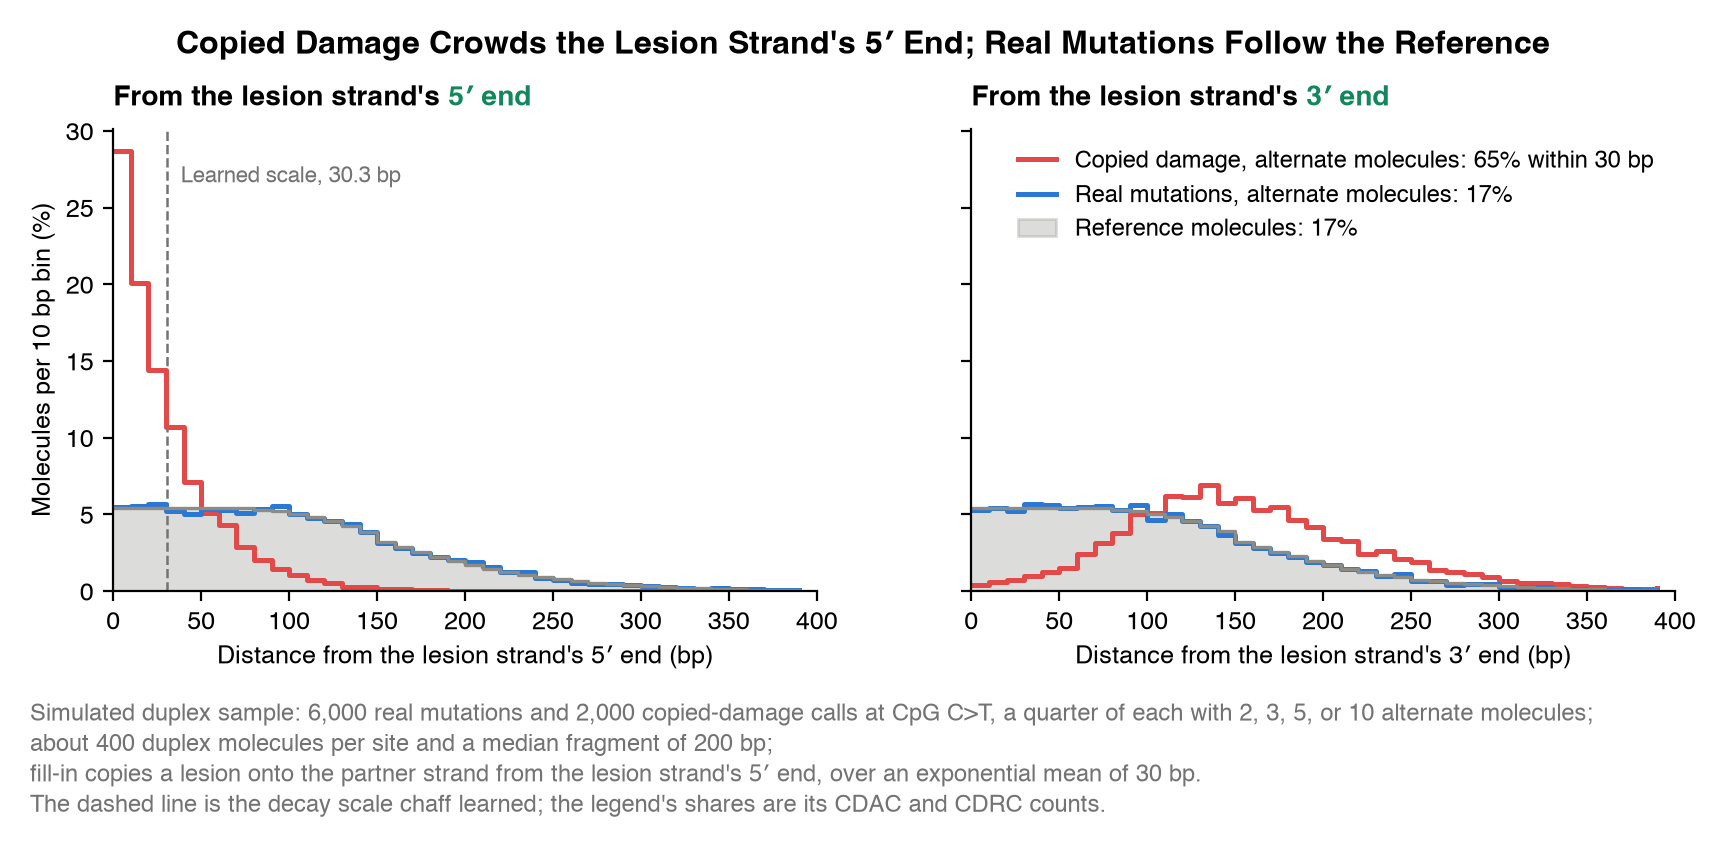
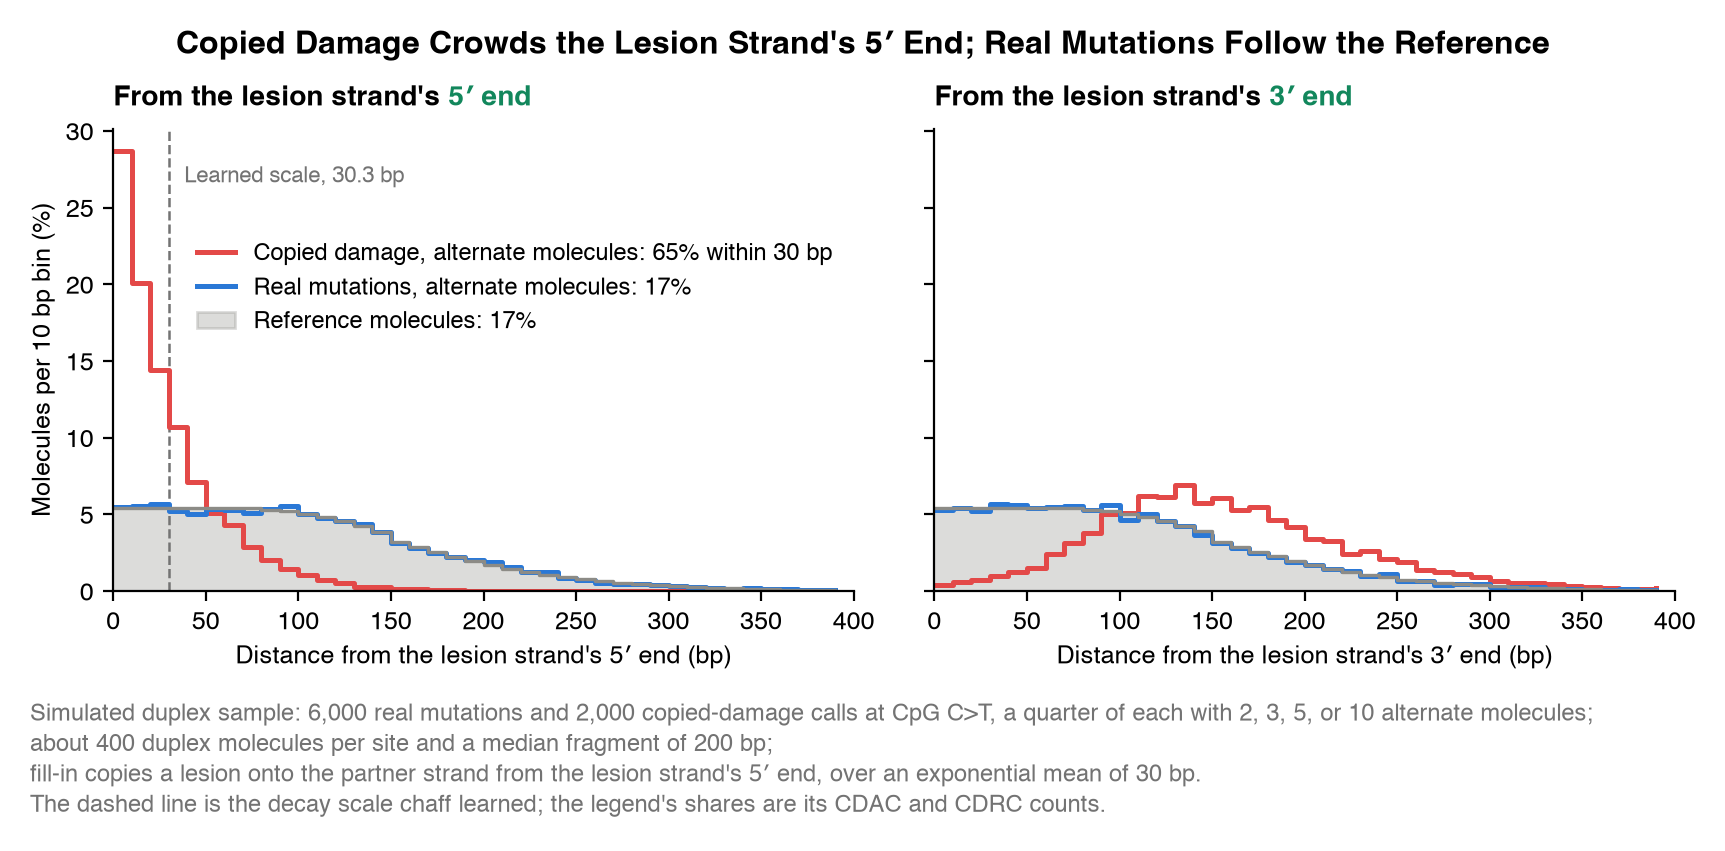
docs: add the learning figure and redraw the figures for clarity
A new figure shows, on 8 small simulated libraries, the learned artifact
fraction and scale against the true ones, and the calibration of CDAP
under both models. The spectrum outlines every bar and thins them by a
linewidth, retitles to "Filtering Removes...", shows each curve's AUC,
and explains its axis; the distance figure's legend moves to the 5'
panel it describes. The diagrams label the lesion 5mC to T, as at a
CpG, give the duplex panel its ends, and the fragment diagram gains a
colour key and clearer callouts.

diff --git a/tests/figures.py b/tests/figures.py
@@ -78,12 +78,12 @@ def pair(header, name, reference, start, length, read_length, site, base, rng):
         yield read
 
 
-def simulate():
+def simulate(work=WORK, seed=SEED, real=REAL, artifacts=ARTIFACTS, fill_in=FILL_IN, cpg_only=False):
     """Write a reference, reads, and calls of real mutations and copied damage, and return the truth by 1-based position."""
-    rng = np.random.default_rng(SEED)
-    p = spectrum(rng)
-    sites = [{"kind": "real", "channel": str(rng.choice(CHANNELS, p=p)), "n": ALT_MOLECULES[i % 4]} for i in range(REAL)]
-    sites += [{"kind": "artifact", "channel": str(rng.choice(CPG_CT)), "n": ALT_MOLECULES[i % 4]} for i in range(ARTIFACTS)]
+    rng = np.random.default_rng(seed)
+    p = np.array([ch in CPG_CT for ch in CHANNELS], dtype=float) / 4 if cpg_only else spectrum(rng)
+    sites = [{"kind": "real", "channel": str(rng.choice(CHANNELS, p=p)), "n": ALT_MOLECULES[i % 4]} for i in range(real)]
+    sites += [{"kind": "artifact", "channel": str(rng.choice(CPG_CT)), "n": ALT_MOLECULES[i % 4]} for i in range(artifacts)]
     rng.shuffle(sites)
     reference = np.array(list("ACGT"))[rng.choice(4, size=SPACING * len(sites), p=[0.295, 0.205, 0.205, 0.295])]
     for i, s in enumerate(sites):
@@ -93,43 +93,47 @@ def simulate():
             context, s["ref"], s["alt"] = (x.translate(COMPLEMENT) for x in (context[::-1], s["ref"], s["alt"]))
         reference[s["site"] - 1:s["site"] + 2] = list(context)
     reference = "".join(reference)
-    WORK.mkdir(parents=True, exist_ok=True)
-    (WORK / "ref.fa").write_text(">chr1\n" + "".join(reference[i:i + 80] + "\n" for i in range(0, len(reference), 80)))
-    pysam.faidx(str(WORK / "ref.fa"))
+    work.mkdir(parents=True, exist_ok=True)
+    (work / "ref.fa").write_text(">chr1\n" + "".join(reference[i:i + 80] + "\n" for i in range(0, len(reference), 80)))
+    pysam.faidx(str(work / "ref.fa"))
     header = pysam.AlignmentHeader.from_dict({"HD": {"VN": "1.6", "SO": "coordinate"}, "SQ": [{"SN": "chr1", "LN": len(reference)}], "RG": [{"ID": "tumor", "SM": "tumor"}]})
-    with pysam.AlignmentFile(str(WORK / "reads.bam"), "wb", header=header) as bam:
+    with pysam.AlignmentFile(str(work / "reads.bam"), "wb", header=header) as bam:
         for i, s in enumerate(sites):
             depth, molecules, alt = int(rng.negative_binomial(DISPERSION, DISPERSION / (DISPERSION + DEPTH))), [], 0
             while alt < s["n"]:
                 start, length, read_length = fragment(rng, s["site"])
                 five_prime = s["site"] - start if s["forward"] else start + length - 1 - s["site"]
-                copied = s["kind"] == "real" or rng.random() < np.exp(-five_prime / FILL_IN)
+                copied = s["kind"] == "real" or rng.random() < np.exp(-five_prime / fill_in)
                 molecules.append((start, length, read_length, s["alt"] if copied else "N"))
                 alt += copied
             molecules += [(*fragment(rng, s["site"]), s["ref"]) for _ in range(max(depth, len(molecules)) - len(molecules))]
             reads = [r for j, m in enumerate(molecules) for r in pair(header, f"s{i}m{j}", reference, *m[:3], s["site"], m[3], rng)]
             for read in sorted(reads, key=lambda r: r.reference_start):
                 bam.write(read)
-    pysam.index(str(WORK / "reads.bam"))
+    pysam.index(str(work / "reads.bam"))
     lines = ["##fileformat=VCFv4.2", f"##contig=<ID=chr1,length={len(reference)}>", '##FORMAT=<ID=GT,Number=1,Type=String,Description="Genotype">',
              "#CHROM\tPOS\tID\tREF\tALT\tQUAL\tFILTER\tINFO\tFORMAT\ttumor"]
     lines += [f"chr1\t{s['site'] + 1}\t.\t{s['ref']}\t{s['alt']}\t.\t.\t.\tGT\t0/1" for s in sites]
-    (WORK / "calls.vcf").write_text("\n".join(lines) + "\n")
+    (work / "calls.vcf").write_text("\n".join(lines) + "\n")
     return {s["site"] + 1: s for s in sites}
 
 
-def run_chaff():
-    subprocess.run(["cargo", "build", "--release", "--manifest-path", str(REPO / "Cargo.toml")], check=True)
+def run_chaff(work=WORK):
     for model in ("chaff", "fgbio"):
-        subprocess.run([str(REPO / "target" / "release" / "chaff"), "--input", WORK / "calls.vcf", "--bam", WORK / "reads.bam", "--ref", WORK / "ref.fa",
+        subprocess.run([str(REPO / "target" / "release" / "chaff"), "--input", work / "calls.vcf", "--bam", work / "reads.bam", "--ref", work / "ref.fa",
                         "--sample", "tumor", "--filters", "copied-damage", "--copied-damage-threshold", str(THRESHOLD), "--model", model,
-                        "--output", WORK / f"{model}.vcf", "--metrics", WORK / f"{model}.tsv"], check=True)
+                        "--output", work / f"{model}.vcf", "--metrics", work / f"{model}.tsv"], check=True, stderr=subprocess.DEVNULL)
 
 
-def calls(model):
-    with pysam.VariantFile(str(WORK / f"{model}.vcf")) as vcf:
-        return {r.pos: {"filtered": "CopiedDamageArtifact" in r.filter.keys(), "cdlr": r.info.get("CDLR"),
+def calls(model, work=WORK):
+    with pysam.VariantFile(str(work / f"{model}.vcf")) as vcf:
+        return {r.pos: {"filtered": "CopiedDamageArtifact" in r.filter.keys(), "cdlr": r.info.get("CDLR"), "cdap": r.info.get("CDAP"),
                         "cdac": r.info.get("CDAC"), "cdrc": r.info.get("CDRC")} for r in vcf}
+
+
+def metrics(work, column):
+    lines = [line.split("\t") for line in (work / "chaff.tsv").read_text().splitlines()]
+    return float(dict(zip(lines[0], lines[1]))[column])
 
 
 def distances(truth):
@@ -179,7 +183,7 @@ def finish(fig, name, title, note):
 
 
 def ends_figure(truth, called):
-    scale = float(next(line.split("\t")[7] for line in (WORK / "chaff.tsv").read_text().splitlines()[1:]))
+    scale = metrics(WORK, "distance")
     groups = [("artifact", "Copied damage, alternate molecules", ALT_COLOR, "cdac"), ("real", "Real mutations, alternate molecules", REAL_COLOR, "cdac"),
               ("reference", "Reference molecules", REF_COLOR, "cdrc")]
     measured, bins = distances(truth), np.arange(0, 401, 10)
@@ -203,7 +207,7 @@ def ends_figure(truth, called):
     for kind, name, color, field in groups:
         text = f"{name}: {share(called, truth, None if kind == 'reference' else kind, field):.0f}%" + (f" within {scale:.0f} bp" if kind == "artifact" else "")
         handles.append(Patch(facecolor=color, alpha=0.3, edgecolor=color, label=text) if kind == "reference" else Line2D([], [], color=color, lw=1.8, label=text))
-    axes[1].legend(handles=handles, loc="upper right", fontsize=8.5, handlelength=1.6, bbox_to_anchor=(1.0, 1.0))
+    axes[0].legend(handles=handles, loc="upper right", fontsize=8.5, handlelength=1.6, bbox_to_anchor=(1.0, 0.8))
     fig.tight_layout(w_pad=2.0)
     finish(fig, "copied-damage-ends.png", "Copied Damage Crowds the Lesion Strand's 5′ End; Real Mutations Follow the Reference",
            NOTE + "\nThe dashed line is the decay scale chaff learned; the legend's shares are its CDAC and CDRC counts.")
@@ -215,8 +219,8 @@ def spectrum_row(ax, truth, keep, title, detail):
         if keep(pos):
             (real if t["kind"] == "real" else artifact)[CHANNELS.index(t["channel"])] += 1
     colors = [CLASS_COLOR[ch[2:5]] for ch in CHANNELS]
-    ax.bar(range(len(CHANNELS)), real, width=0.78, color=colors, linewidth=0)
-    ax.bar(range(len(CHANNELS)), artifact, bottom=real, width=0.78, color="white", edgecolor=colors, hatch="//////", linewidth=0.5)
+    ax.bar(range(len(CHANNELS)), real, width=0.68, color=colors, edgecolor=colors, linewidth=0.5)
+    ax.bar(range(len(CHANNELS)), artifact, bottom=real, width=0.68, color="white", edgecolor=colors, hatch="//////", linewidth=0.5)
     ax.set_xlim(-0.7, len(CHANNELS) - 0.3)
     ax.set_xticks([])
     ax.set_ylabel("Calls")
@@ -231,6 +235,11 @@ def roc(called, truth, n):
     art, real = scores("artifact"), scores("real")
     cuts = np.unique(np.concatenate([art, real]))[::-1]
     return [0.0] + [100 * np.mean(real >= c) for c in cuts], [0.0] + [100 * np.mean(art >= c) for c in cuts]
+
+
+def auc(called, truth, n):
+    xs, ys = (np.array(v) / 100 for v in roc(called, truth, n))
+    return float(np.sum(np.diff(xs) * (ys[1:] + ys[:-1]) / 2) + (1 - xs[-1]) * ys[-1])
 
 
 def operating_point(called, truth, n):
@@ -258,7 +267,7 @@ def outcome_figure(truth, chaff, fgbio):
     after.tick_params(axis="x", length=0, pad=2)
     for label, ch in zip(after.get_xticklabels(), CHANNELS):
         label.set_fontweight("bold" if ch in CPG_CT else "normal")
-    handles = [Patch(facecolor=CLASS_COLOR["C>T"], label="Real mutations"), Patch(facecolor="white", edgecolor=CLASS_COLOR["C>T"], hatch="//////", label="Copied damage")]
+    handles = [Patch(facecolor=GRAY, edgecolor=GRAY, label="Real mutations"), Patch(facecolor="white", edgecolor=GRAY, hatch="//////", label="Copied damage")]
     after.legend(handles=handles, loc="upper right", fontsize=8.5, ncol=2, handlelength=1.4, bbox_to_anchor=(1.0, 1.0))
     ax = fig.add_subplot(grid[:, 1])
     for n, color in zip(ALT_MOLECULES, RAMP):
@@ -271,13 +280,87 @@ def outcome_figure(truth, chaff, fgbio):
     ax.set_xticks([0, 1, 10, 100], ["0", "1", "10", "100"])
     ax.set_xlabel("Real C>T at CpG filtered (%)")
     ax.set_ylabel("Copied damage filtered (%)")
-    handles = [Line2D([], [], color=c, lw=1.6, label=f"{n} alternate molecules") for n, c in zip(ALT_MOLECULES, RAMP)]
+    handles = [Line2D([], [], color=c, lw=1.6, label=f"{n} alternate molecules (AUC {auc(chaff, truth, n):.2f})") for n, c in zip(ALT_MOLECULES, RAMP)]
     handles += [Line2D([], [], ls="", marker="o", ms=6, mfc=face, mec="black", mew=1.4 if face == "white" else 1.0, label=f"--model {m} at {THRESHOLD}")
                 for m, face in (("chaff", "black"), ("fgbio", "white"))]
     ax.legend(handles=handles, loc="lower right", fontsize=8.5, handlelength=1.4)
     fig.subplots_adjust(left=0.07, right=0.99, bottom=0.12, top=0.9)
-    finish(fig, "copied-damage-filtering.png", "Chaff Removes Most Copied Damage and Keeps Real Mutations; 2 Molecules Are Its Limit",
-           NOTE + "\nCurves sweep the threshold under the chaff model, and dots mark a threshold of 0.05. Costs count the real C>T at CpG, the stratum copied damage shares.")
+    finish(fig, "copied-damage-filtering.png", "Filtering Removes Most Copied Damage and Keeps Real Mutations; 2 Molecules Are Its Limit",
+           NOTE + "\nCurves sweep the threshold under the chaff model, and dots mark a threshold of 0.05. Real calls filtered are counted among the real C>T at CpG,"
+           "\nthe stratum copied damage shares, on an axis linear below 1% and logarithmic above.")
+
+
+LIBRARIES = [(f, 30) for f in (0, 0.05, 0.1, 0.2, 0.4, 0.6)] + [(0.4, 15), (0.4, 60)]
+LIBRARY_CALLS = 400
+BINS = [0, 0.01, 0.05, 0.1, 0.2, 0.3, 0.4, 0.5, 0.6, 0.7, 0.8, 0.9, 0.95, 0.99, 1.0001]
+
+
+def libraries():
+    """Simulate small libraries of C>T calls at CpG with known copied-damage fractions and scales, and run chaff on each."""
+    out = []
+    for i, (fraction, scale) in enumerate(LIBRARIES):
+        work = WORK / "libraries" / f"{fraction}-{scale}"
+        artifacts = round(LIBRARY_CALLS * fraction)
+        truth = simulate(work, SEED + i + 1, LIBRARY_CALLS - artifacts, artifacts, scale, cpg_only=True)
+        run_chaff(work)
+        out.append({"fraction": fraction, "scale": scale, "truth": truth, "learned": metrics(work, "artifact_fraction"),
+                    "learned_scale": metrics(work, "distance"), "chaff": calls("chaff", work), "fgbio": calls("fgbio", work)})
+    return out
+
+
+def calibration(libs, model):
+    pairs = [(lib[model][p]["cdap"], t["kind"] == "real") for lib in libs for p, t in lib["truth"].items() if lib[model][p]["cdap"] is not None]
+    posterior, real = (np.array(v, dtype=float) for v in zip(*pairs))
+    bins = np.digitize(posterior, BINS) - 1
+    return [(posterior[bins == b].mean(), real[bins == b].mean(), int(np.sum(bins == b))) for b in range(len(BINS) - 1) if np.sum(bins == b) >= 15]
+
+
+def learning_figure(libs):
+    fig, (left, right) = plt.subplots(1, 2, figsize=(8.6, 4.2))
+    for ax in (left, right):
+        ax.set_box_aspect(1)
+    left.plot([0, 70], [0, 70], color=GRAY, lw=0.9, ls="--", zorder=1)
+    for lib in libs:
+        marker = {15: "s", 30: "o", 60: "D"}[lib["scale"]]
+        left.scatter(100 * lib["fraction"], 100 * lib["learned"], s=36, marker=marker, color=ALT_COLOR, zorder=3)
+    left.set_xlim(0, 70)
+    left.set_ylim(0, 70)
+    left.set_xlabel("True copied damage (% of calls)")
+    left.set_ylabel("Learned artifact fraction (%)")
+    left.set_title("chaff learns each library's damage", fontsize=10, fontweight="bold", loc="left")
+    inset = left.inset_axes([0.6, 0.1, 0.36, 0.36])
+    inset.plot([0, 80], [0, 80], color=GRAY, lw=0.8, ls="--", zorder=1)
+    for lib in libs:
+        if lib["fraction"] > 0:
+            marker = {15: "s", 30: "o", 60: "D"}[lib["scale"]]
+            inset.scatter(lib["scale"], lib["learned_scale"], s=16, marker=marker, color=ALT_COLOR, zorder=3)
+    inset.set_xlim(0, 80)
+    inset.set_ylim(0, 80)
+    inset.set_xticks([0, 30, 60])
+    inset.set_yticks([0, 30, 60])
+    inset.tick_params(labelsize=7)
+    inset.set_xlabel("True scale (bp)", fontsize=7.5)
+    inset.set_ylabel("Learned (bp)", fontsize=7.5)
+    right.plot([0, 1], [0, 1], color=GRAY, lw=0.9, ls="--", zorder=1)
+    for model, face, style in (("chaff", REAL_COLOR, "-"), ("fgbio", "white", "--")):
+        x, y, _ = zip(*calibration(libs, model))
+        right.plot(x, y, color=REAL_COLOR, lw=1.2, ls=style, zorder=2)
+        right.scatter(x, y, s=30, facecolors=face, edgecolors=REAL_COLOR, linewidths=1.3, zorder=3, label=f"--model {model}")
+    right.set_xlim(0, 1)
+    right.set_ylim(0, 1)
+    right.set_xlabel("CDAP, the posterior that a call is real")
+    right.set_ylabel("Calls that are real")
+    right.set_title("Its posteriors mean what they say", fontsize=10, fontweight="bold", loc="left")
+    right.legend(loc="lower right", fontsize=8.5, handlelength=1.4)
+    shapes = [Line2D([], [], ls="", marker=m, ms=6, color=ALT_COLOR, label=f"{scale} bp fill-in") for m, scale in (("s", 15), ("o", 30), ("D", 60))]
+    left.legend(handles=shapes, loc="upper left", fontsize=8.5, handlelength=1.0)
+    fig.tight_layout(w_pad=3.0)
+    finish(fig, "copied-damage-learning.png", LEARNING_TITLE,
+           f"{len(libs)} simulated duplex libraries of {LIBRARY_CALLS} C>T calls at CpG, each with a known share of copied damage and fill-in scale and with\n"
+           f"{', '.join(map(str, ALT_MOLECULES[:-1]))}, or {ALT_MOLECULES[-1]} alternate molecules per call; calls are pooled across libraries into bins of CDAP, with bins of fewer than 15 calls left out.")
+
+
+LEARNING_TITLE = "The Learned Prior Tracks Each Library's Damage and Calibrates Its Posteriors"
 
 
 if __name__ == "__main__":
@@ -285,8 +368,10 @@ if __name__ == "__main__":
         "font.family": "sans-serif", "font.sans-serif": ["Helvetica", "Arial", "DejaVu Sans"], "font.size": 9,
         "axes.spines.top": False, "axes.spines.right": False, "axes.linewidth": 0.8, "legend.frameon": False,
     })
+    subprocess.run(["cargo", "build", "--release", "--manifest-path", str(REPO / "Cargo.toml")], check=True)
     truth = simulate()
     run_chaff()
     chaff = calls("chaff")
     ends_figure(truth, chaff)
     outcome_figure(truth, chaff, calls("fgbio"))
+    learning_figure(libraries())
